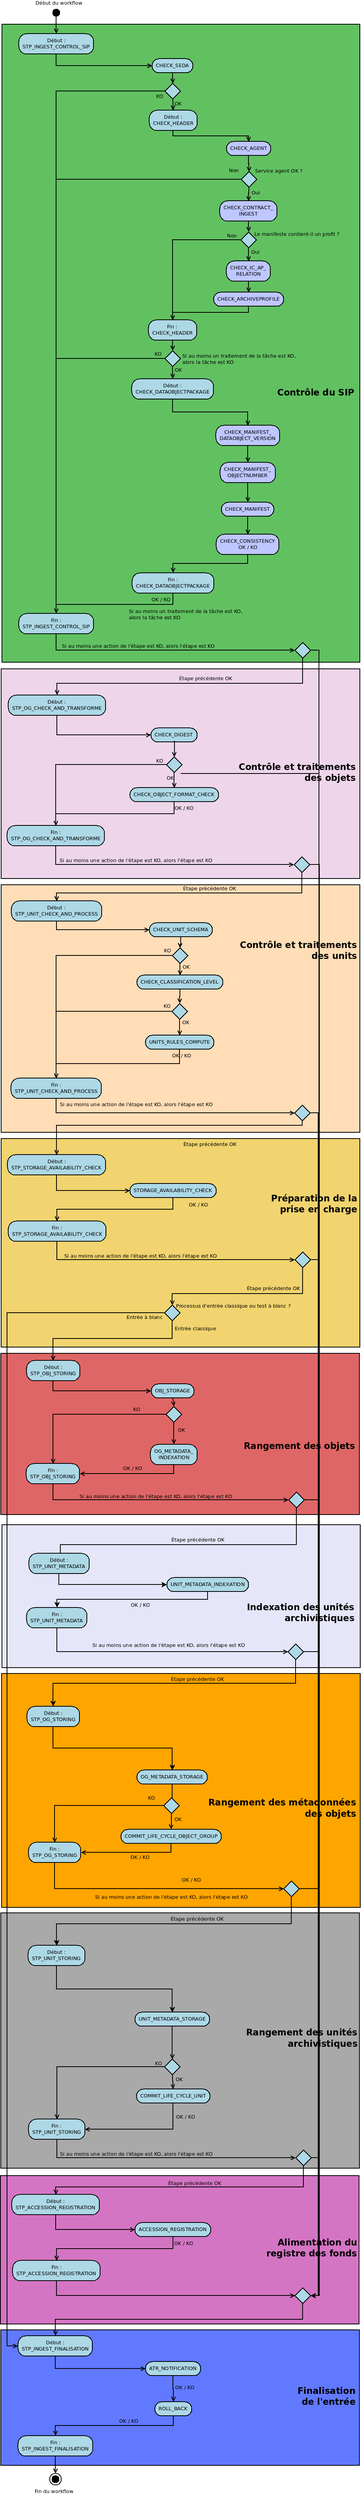
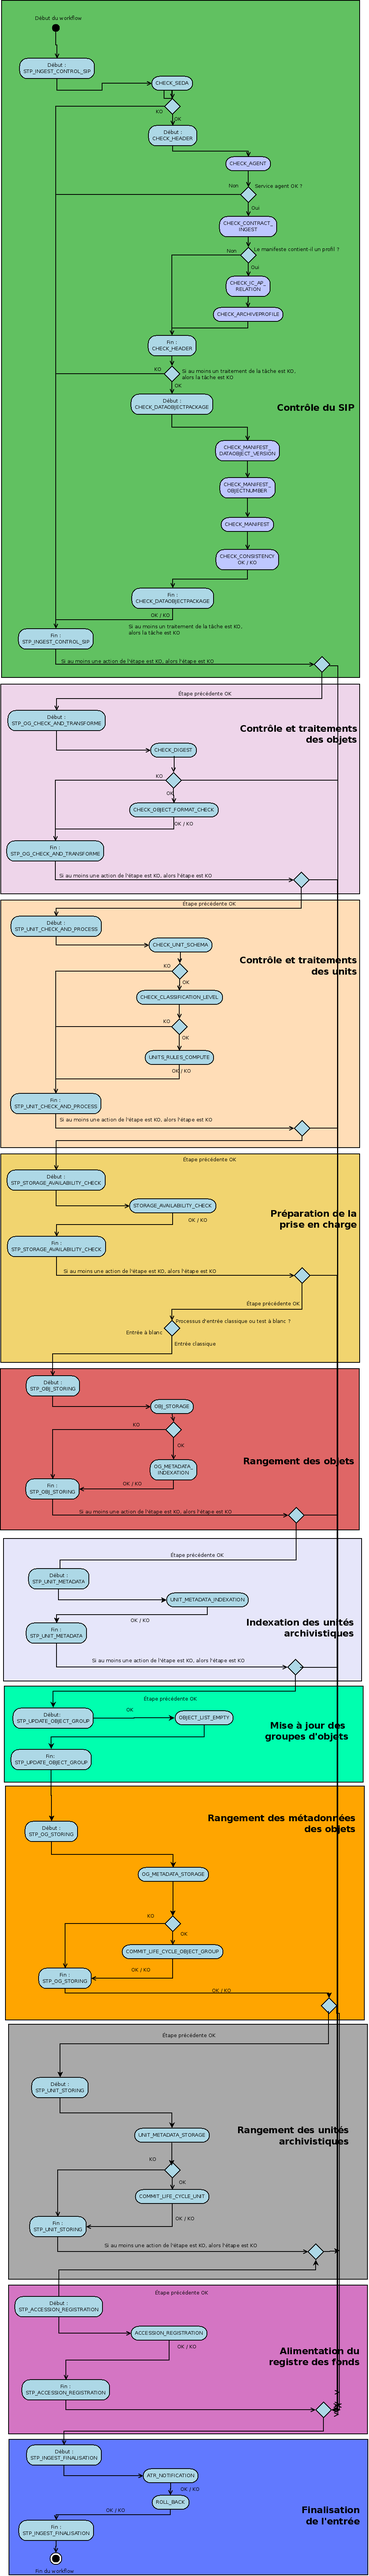
worflow update

diff --git a/doc/fr/workflow-model/ingest/workflow.rst b/doc/fr/workflow-model/ingest/workflow.rst
@@ -428,6 +428,25 @@ Indexation des métadonnées des unités archivistiques (UNIT_METADATA_INDEXATIO
   - FATAL : une erreur technique est survenue lors de l'indexation des métadonnées des unités archivistiques (UNIT_METADATA_INDEXATION.FATAL = Erreur fatale lors de l'indexation des métadonnées de l'unité archivistique)
 
 
+
+Mise à jour du groupe d'objet (STP_UPDATE_OBJECT_GROUP)
+========================================================
+
+Etablissement de la liste des objets (OBJECTS_LIST_EMPTY)
+~~~~~~~~~~~~~~~~~~~~~~~~~~~~~~~~~~~~~~~~~~~~~~~~~~~~~~~~~~~~~~~~~~~~~~~~~~~~~~~
+
++ **Règle** : Etablissement de la liste des objets pré existante dans le groupe d'objet technique avant le rattachement à l'unité archivistique. Si aucun rattachement n'est déclaré dans le bordereau de transfert, alors cette tâche est OK.
+
++ **Type** : bloquant
+
++ **Statuts** :
+
+  - OK :  La liste des objets a été créé avec succès (STP_UPDATE_OBJECT_GROUP.OK = Succès lors de l' établissement de la liste des objets  )
+
+  - FATAL : La liste des objets n'a pas été créée (STP_UPDATE_OBJECT_GROUP.FATAL = Erreur fatale lors de l' établissement de la liste des objets  )
+
+
+
 Enregistrement et écriture des métadonnées des objets et groupes d'objets(STP_OG_STORING)
 ================================================================================================================
 

diff --git a/doc/fr/manuel-utilisateur/general.rst b/doc/fr/manuel-utilisateur/general.rst
@@ -61,8 +61,6 @@ Formulaire de recherche globale
 
 Les formulaires de recherche globale sont composés d'un seul champ de recherche.
 
-|
-
 .. image:: images/au_rechchs.png
 
 Formulaire de recherche avancée
@@ -70,7 +68,6 @@ Formulaire de recherche avancée
 
 Les formulaires de recherche avancée sont composés d'au moins deux champs de recherche .
 
-|
 
 .. image:: images/au_rechcha.png
 
